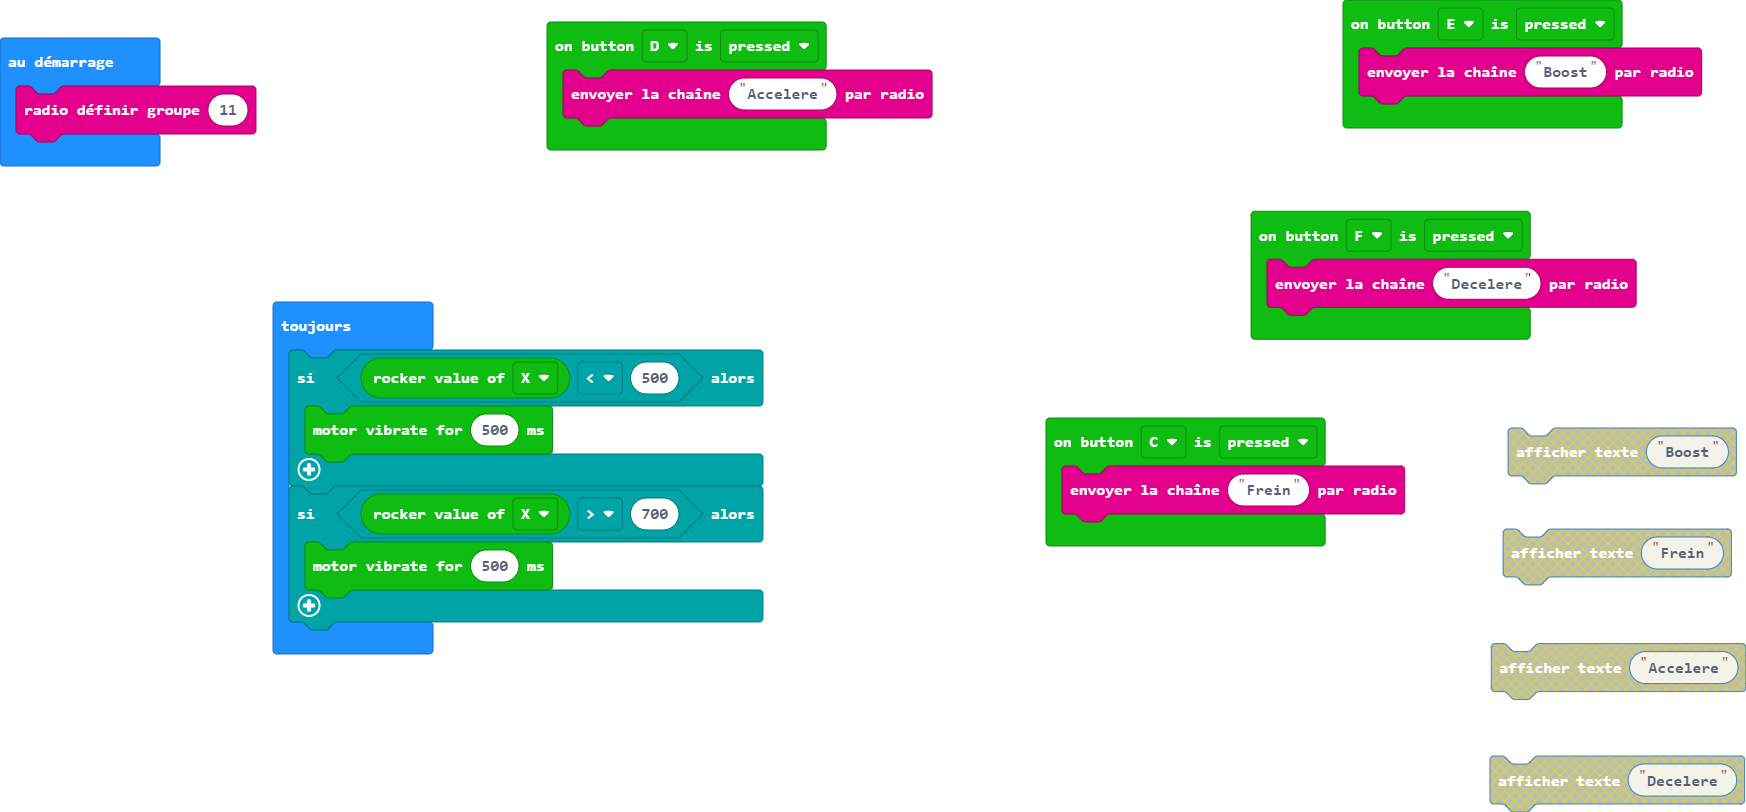
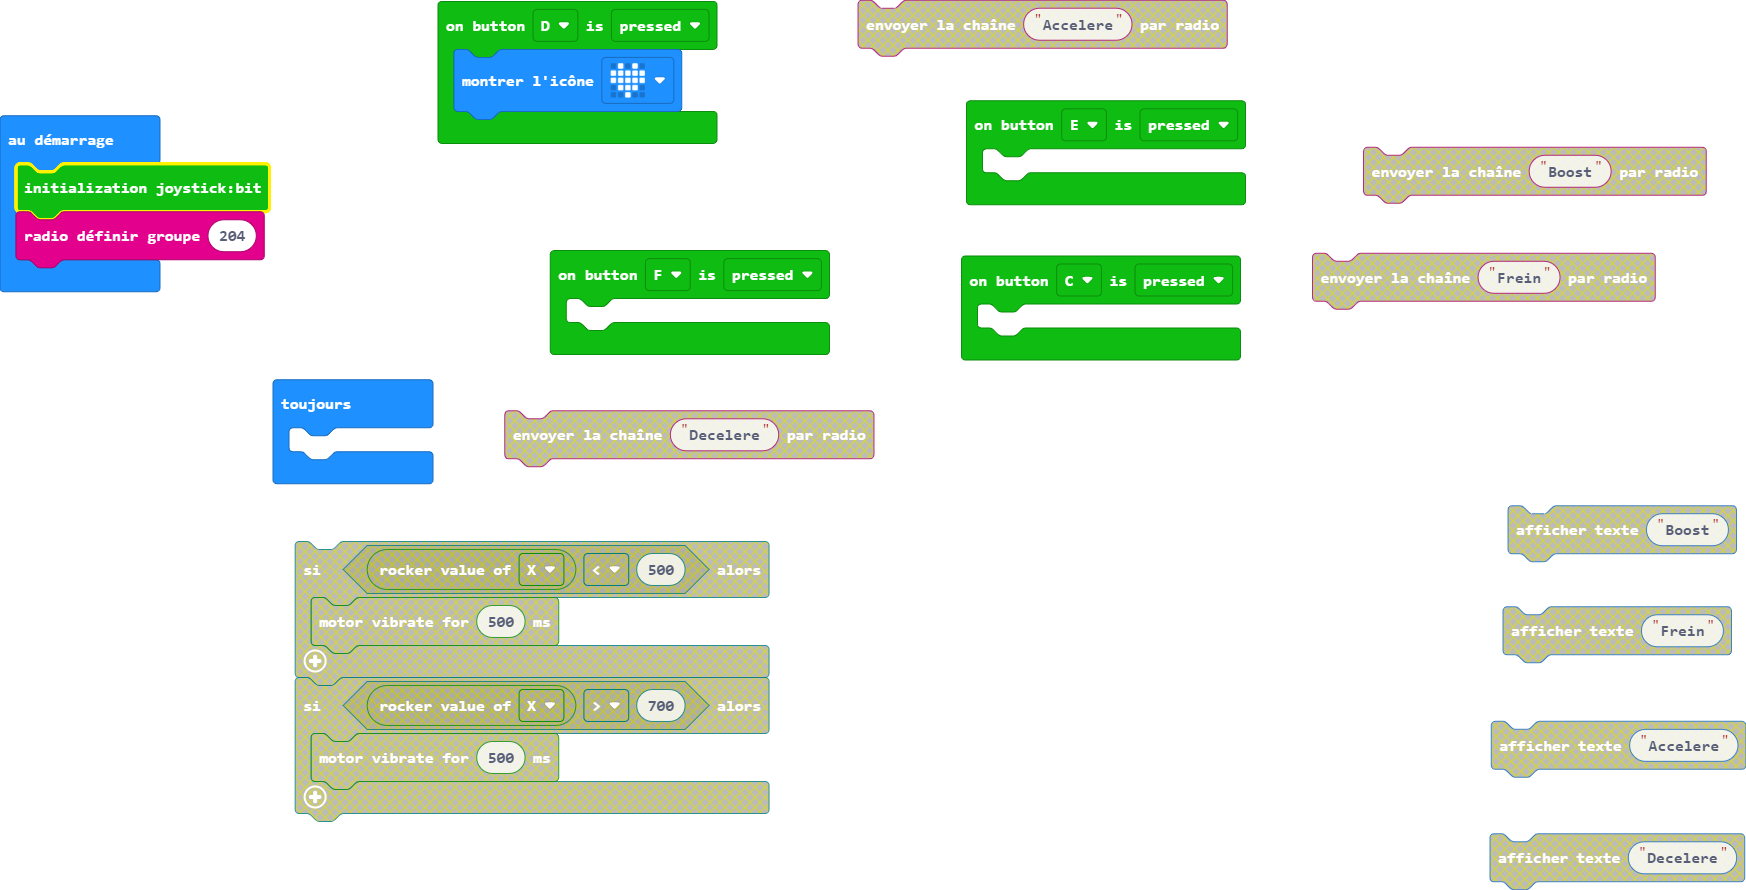
Mise à jour main.blocks, main.ts

diff --git a/main.ts b/main.ts
@@ -1,21 +1,17 @@
 joystickbit.onButtonEvent(joystickbit.JoystickBitPin.P14, joystickbit.ButtonType.down, function () {
-    radio.sendString("Boost")
+	
 })
 joystickbit.onButtonEvent(joystickbit.JoystickBitPin.P15, joystickbit.ButtonType.down, function () {
-    radio.sendString("Decelere")
+	
 })
 joystickbit.onButtonEvent(joystickbit.JoystickBitPin.P13, joystickbit.ButtonType.down, function () {
-    radio.sendString("Accelere")
+    basic.showIcon(IconNames.Heart)
 })
 joystickbit.onButtonEvent(joystickbit.JoystickBitPin.P12, joystickbit.ButtonType.down, function () {
-    radio.sendString("Frein")
+	
 })
-radio.setGroup(11)
+joystickbit.initJoystickBit()
+radio.setGroup(204)
 basic.forever(function () {
-    if (joystickbit.getRockerValue(joystickbit.rockerType.X) < 500) {
-        joystickbit.Vibration_Motor(500)
-    }
-    if (joystickbit.getRockerValue(joystickbit.rockerType.X) > 700) {
-        joystickbit.Vibration_Motor(500)
-    }
+	
 })
